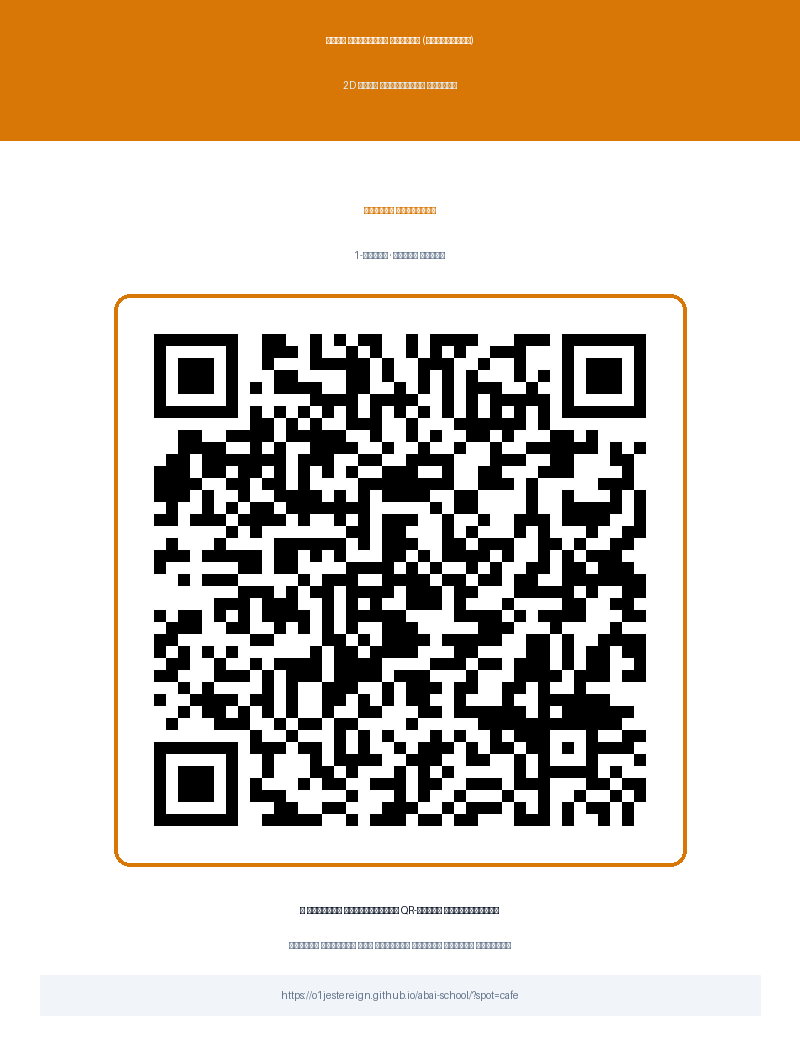
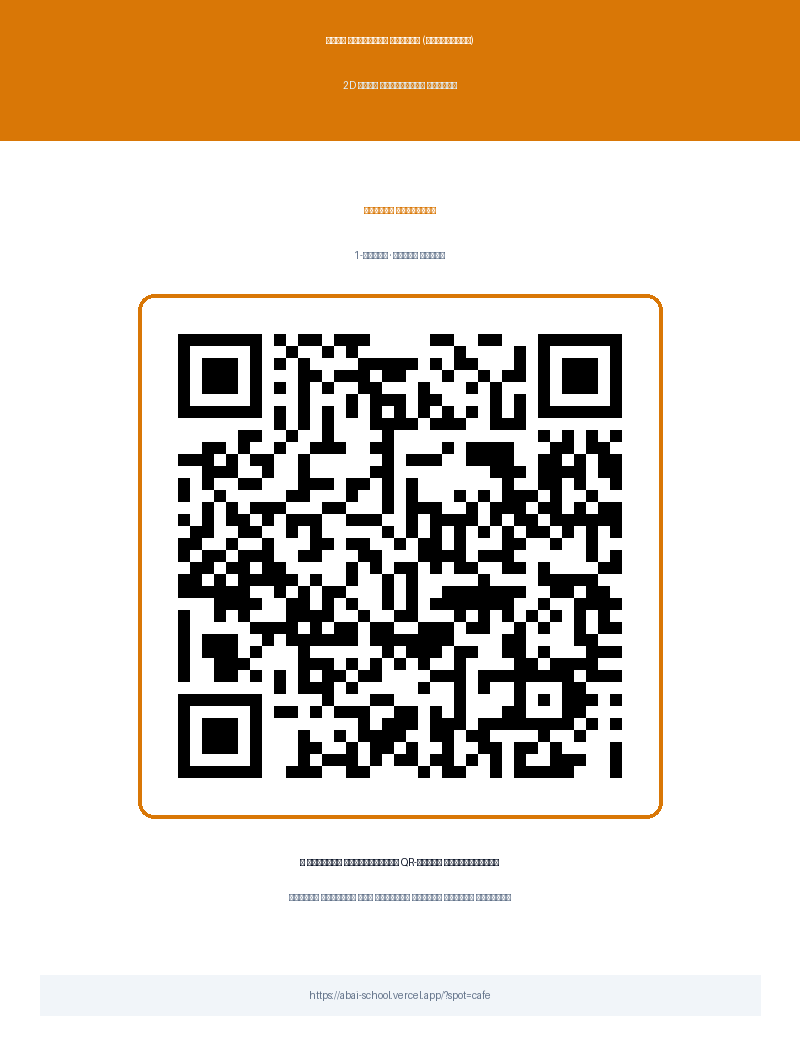
feat: configure QR codes and generator for live Vercel domain https://abai-school.vercel.app/

Changed region(s): [[0.125, 0.2743, 0.875, 0.9143], [0.375, 0.9448, 0.625, 0.9752]]

diff --git a/qr_generator.html b/qr_generator.html
@@ -342,7 +342,7 @@
     const curPath = window.location.pathname.replace(/\/[^/]*$/, '/');
     let defaultBase = curOrigin.startsWith('http') && !curOrigin.includes('localhost')
       ? (curOrigin + curPath) 
-      : 'https://o1jestereign.github.io/abai-school/';
+      : 'https://abai-school.vercel.app/';
     if (!defaultBase.endsWith('/')) defaultBase += '/';
 
     const inputUrl = document.getElementById('base-url');

diff --git a/README.md b/README.md
@@ -4,6 +4,8 @@
 Заманауи, мобильді құрылғыларға бейімделген мектептің интерактивті 2D ішкі навигация жүйесі. 
 Оқушылар, мұғалімдер және қонақтар үшін кез келген кабинетке, асханаға немесе спорт залға дейінгі ең қысқа маршрутты салып береді.
 
+🌐 **Жұмыс істеп тұрған сайт (Live Vercel):** [https://abai-school.vercel.app/](https://abai-school.vercel.app/)
+
 ---
 
 ## ✨ Негізгі Мүмкіндіктер
